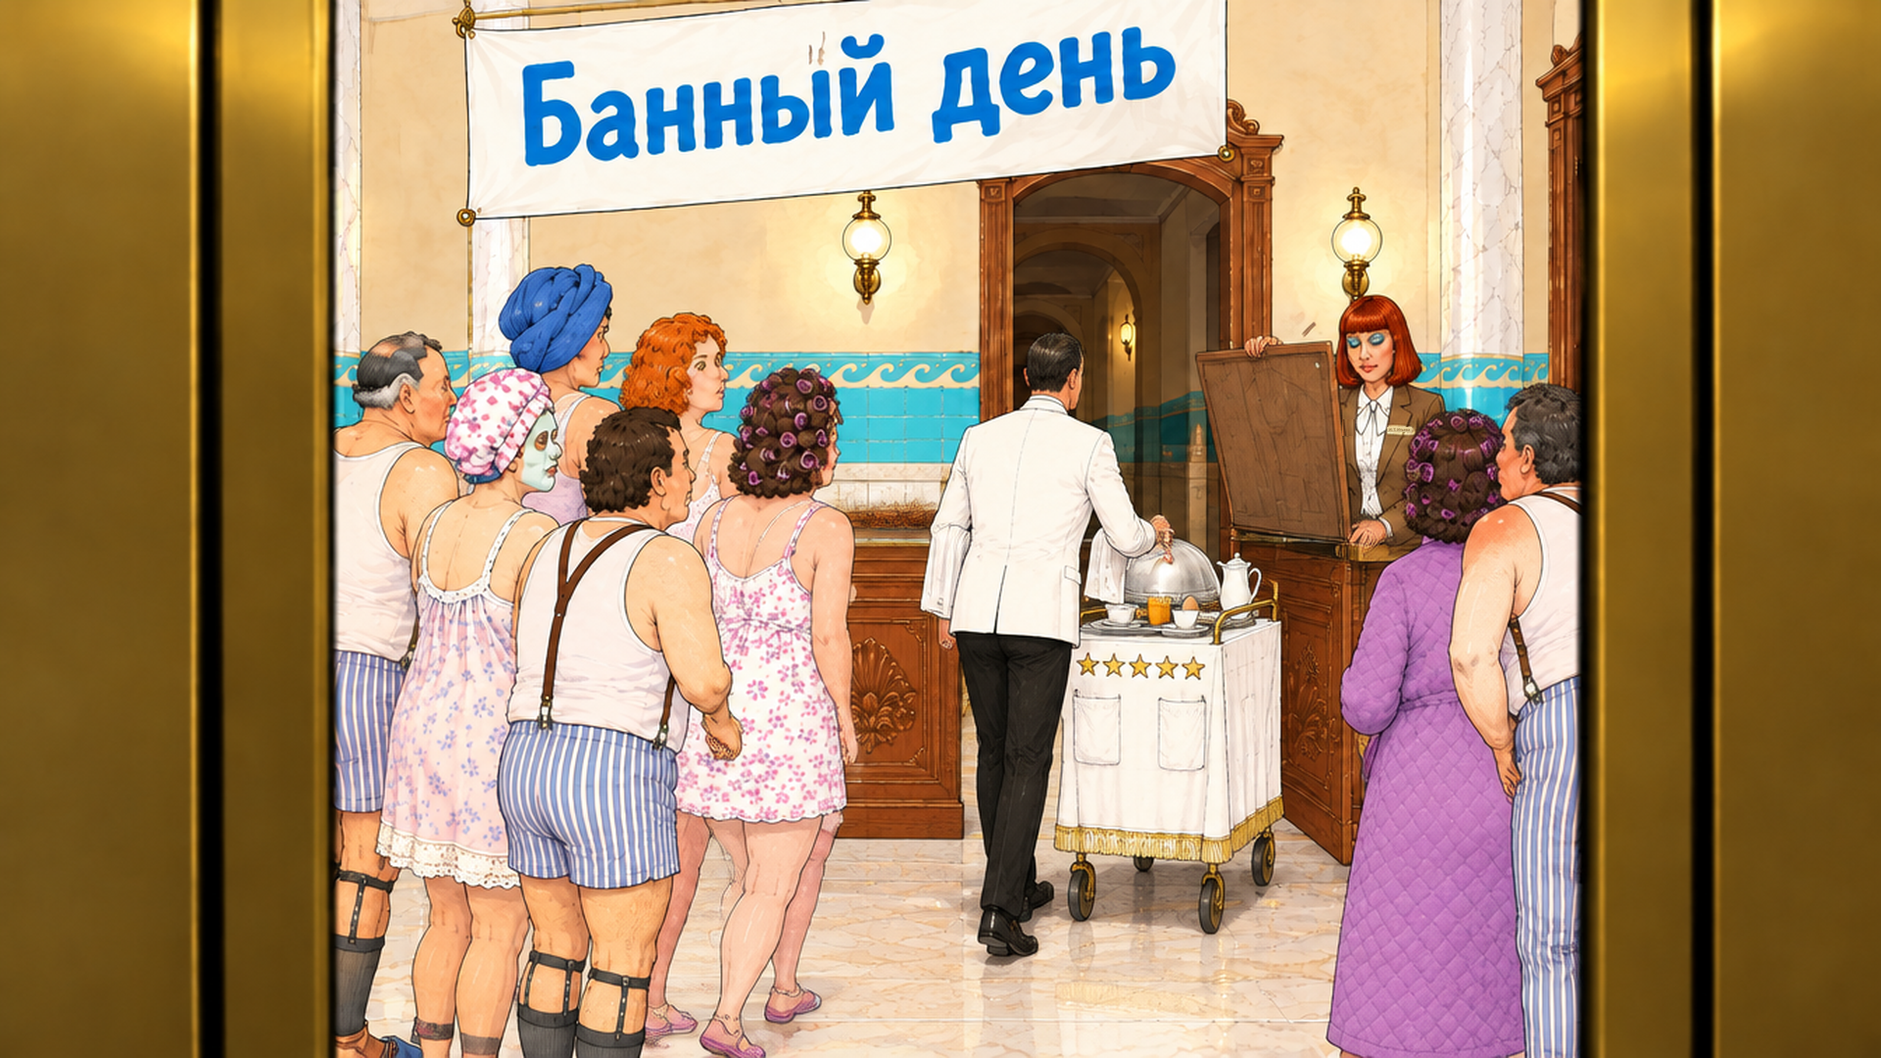
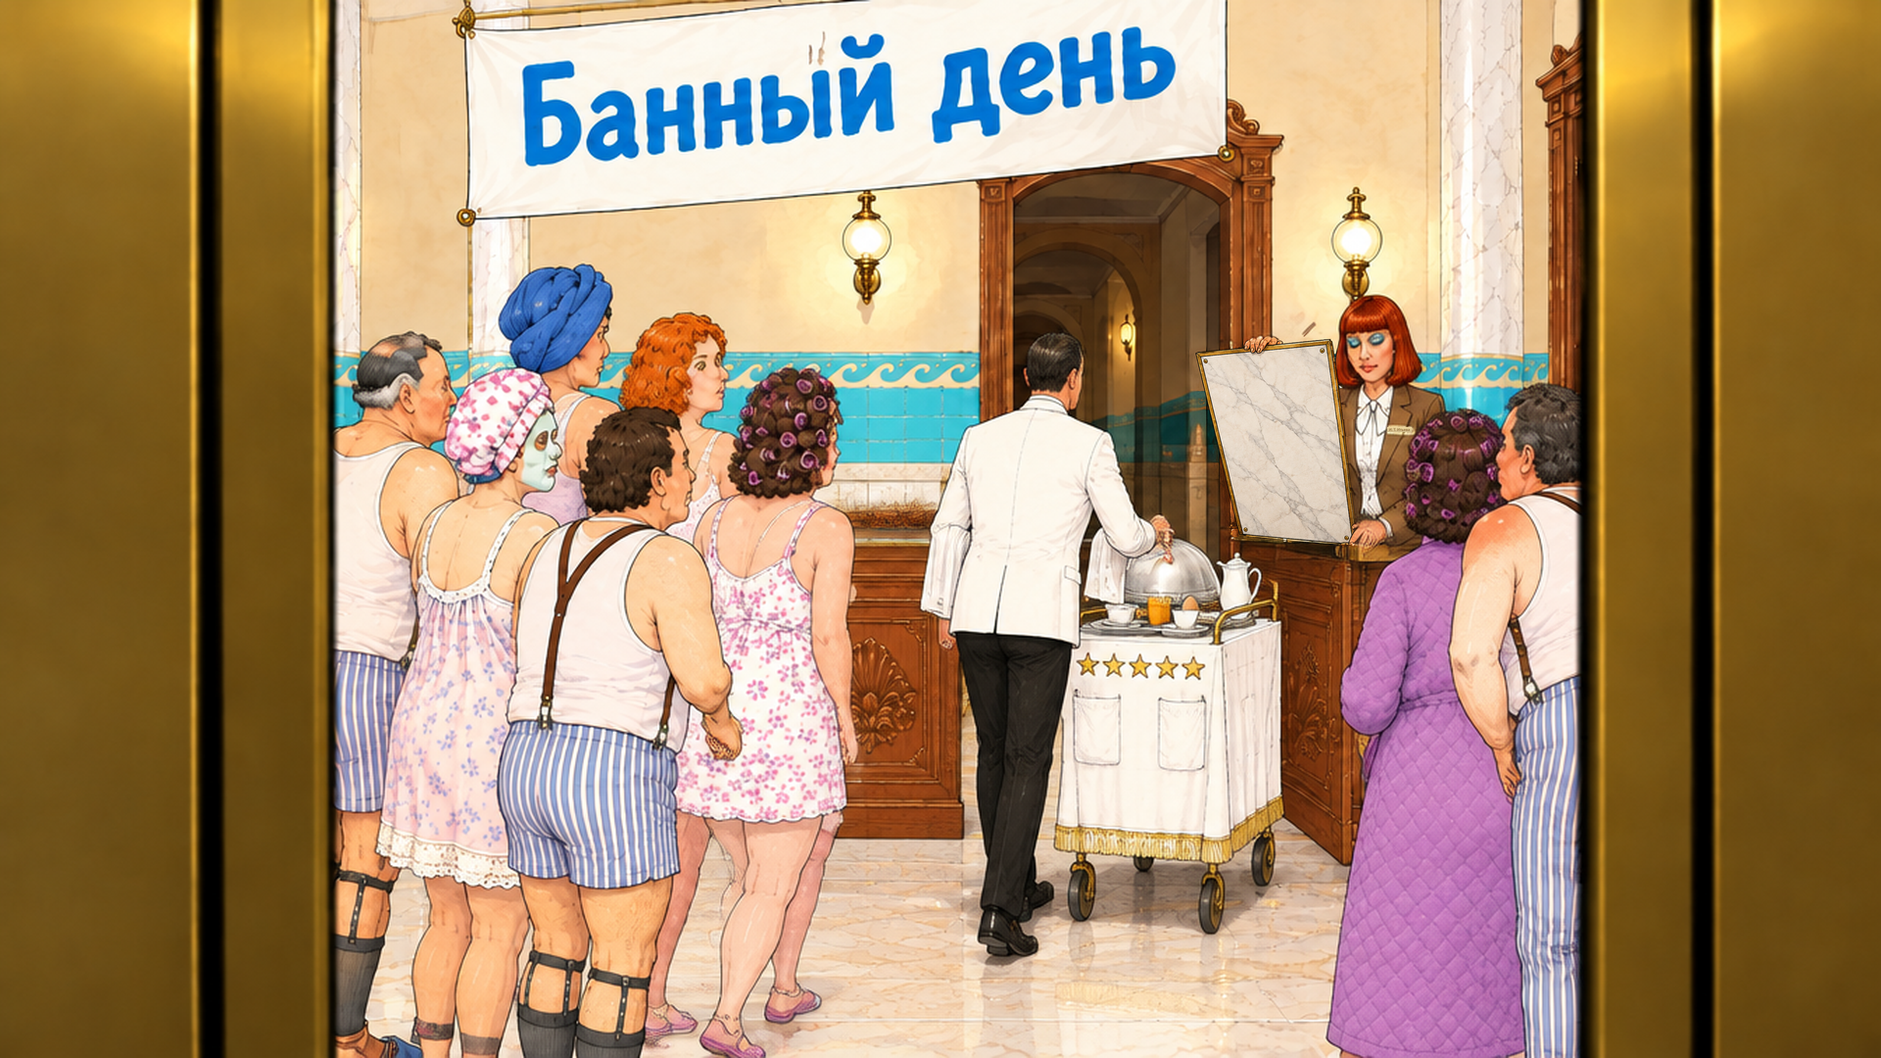
Кадр с официантом: откидная доска мраморная
Claude-Session: https://claude.ai/code/session_01AmbdRPQad6KLKiqRm745ZE

Changed region(s): [[0.625, 0.3056, 0.7188, 0.5194]]

diff --git a/PROJECT_STATUS_HYDROUDAR.md b/PROJECT_STATUS_HYDROUDAR.md
@@ -4,7 +4,7 @@
 
 ## Точка входа для новой сессии
 
-- ★★★★★★★★★★★★★★★★★★★★★★★★★★★★★★★★★ **19.10.2026, поздний вечер — РАУНД 6 ВНЕСЁН В ИГРУ (слово автора «влить значит внести в игру»).** Рука Изольды на папке — «в»: слой `st_z04_iz_slap` в `assets/`, `кадр:вид:Z04+st_z04_iz_slap` на «Папка → поднять» (`ACT2_LOGIC.md`), графика 265. Стойка W2 с ящиками — «а»: `room_w2.png` заменён (прежний — `work/orig_gfx/room_w2__дверцы_до_19.10.png`), слой `st_w2_lowdrawer_open` перерисован под ящики (job 8be3d8a8). `Z04.map.take` — без фразы про плёнку («Просто взял и всё»; ТЗ Акта II поправлено). Кадры из лифта — выбор автора «пара 3» (выглядывание c2 + официант c3) в `assets/gfx/frames/`: ракурс по канону, стойка поперёк кадра, за ней арка; бейдж впечатан, лишняя вторая табличка на пиджаке закрашена; прежние кадры — `work/orig_gfx/*__стойка_вглубь_до_19.10.png`. Замечание автора при выборе («опять геометрический абсурд… подумай, как и кто сможет там пройти»; обещано фото настоящей стойки) — открыто: кадр официанта доработать в новой сессии по фото (доска на c3 деревянная, должна быть мраморной). Проверки: `check_logic.py 2` чисто, `check_texts` 0/0, `check_asset_spec`, `check_docs`, `check_slot_flags`, шрифты — чисто; автопрохождение — AUTOPLAY OK.
+- ★★★★★★★★★★★★★★★★★★★★★★★★★★★★★★★★★ **19.10.2026, поздний вечер — РАУНД 6 ВНЕСЁН В ИГРУ (слово автора «влить значит внести в игру»).** Рука Изольды на папке — «в»: слой `st_z04_iz_slap` в `assets/`, `кадр:вид:Z04+st_z04_iz_slap` на «Папка → поднять» (`ACT2_LOGIC.md`), графика 265. Стойка W2 с ящиками — «а»: `room_w2.png` заменён (прежний — `work/orig_gfx/room_w2__дверцы_до_19.10.png`), слой `st_w2_lowdrawer_open` перерисован под ящики (job 8be3d8a8). `Z04.map.take` — без фразы про плёнку («Просто взял и всё»; ТЗ Акта II поправлено). Кадры из лифта — выбор автора «пара 3» (выглядывание c2 + официант c3) в `assets/gfx/frames/`: ракурс по канону, стойка поперёк кадра, за ней арка; бейдж впечатан, лишняя вторая табличка на пиджаке закрашена; прежние кадры — `work/orig_gfx/*__стойка_вглубь_до_19.10.png`. Замечание автора про «геометрический абсурд» относилось к прежним вариантам (уточнение автора 19.10.2026); доска на кадре официанта заменена на мраморную — вопрос закрыт. Проверки: `check_logic.py 2` чисто, `check_texts` 0/0, `check_asset_spec`, `check_docs`, `check_slot_flags`, шрифты — чисто; автопрохождение — AUTOPLAY OK.
 - ★★★★★★★★★★★★★★★★★★★★★★★★★★★★★★★★ **19.10.2026, вечер — ОТМЕТКИ РАУНДА 6 СОБРАНЫ (не внесены); PR #24 слит в `main` по слову автора «вливай». Новая сессия — только подготовка, ничего не делать до слова автора (он начнёт с ряда замечаний).** Отметки (страница https://claude.ai/artifact/9j3eFwwkW88PBjMqBSBxaL, коллекция `picks`, слоты `r6_*`): **r6_slap — «в»** (рука из-за левого края: `work/higgsfield/candidates/act2_fix_1016/slap_c/st_z04_iz_slap.png` → в `assets/`, `кадр:вид:Z04+st_z04_iz_slap` на «Папка → поднять»); **r6_w2 — «а»** (`room_w2__a.png` → `assets/gfx/rooms/room_w2.png`, прежний — в `work/orig_gfx/`, затем слой `st_w2_lowdrawer_open` заново от новой основы); **r6_map — своя правка**: «не надо вообще акцентировать внимание на материале. Просто взял и всё» (переписать `Z04.map.take` без плёнки/бумаги); **r6_gate — отклонено**, отметка «c3» с замечанием: «нет, опять нарисован какой-то геометрический абсурд. Подумай сам как и кто сможет там пройти. Я приложил новую картинку как выглядит такая стойка в жизни» (картинку автор даст в новой сессии). Кадры из лифта: решено автором 19.10 — ракурс по канону: служебный лифт у северной стены (на `room_w2.png` — золотые двери справа), из него стойка видна поперёк кадра на дальнем плане, западный конец с откидной доской и калиткой справа, сразу за калиткой — арка в служебный коридор, толпа между лифтом и стойкой спинами, Изольда за стойкой лицом, официант сквозь толпу к проходу; образец расположения — принятый `assets/gfx/rooms/room_w2_under.png`. Перерисовываются ОБА кадра (`fr_a1_lobby_peek`, `fr_a1_lobby_waiter`); кандидаты `fr_a1_lobby_peek__c1/c2`, `fr_a1_lobby_waiter__c1–c3` (в `act2_fix_1016/`) — по замечанию автора проход всё ещё абсурден; ветка `gate*` (прежний ракурс) закрыта. В `assets/` пока прежние кадры. Урок: генератор не держит устройство стойки — сначала схема сверху и согласование с автором, потом рисунок; проверять «кто и как физически пройдёт».
 - ★★★★★★★★★★★★★★★★★★★★★★★★★★★★★★★ **18.10.2026 — РАУНД 5 ВНЕСЁН; РАУНД 6 НА СТРАНИЦЕ https://claude.ai/artifact/9j3eFwwkW88PBjMqBSBxaL (слоты `r6_*`). Игра (та же ссылка): https://claude.ai/artifact/E2YwhX4ZapWa6rPZ721VLQ. Ветка `claude/act3-build-1016`, PR #24.** **Внесено по отметкам:** ящики Z04 — вариант «б» (`zoom_z04.png`, три слоя ящиков перерезаны, зоны `drawer` 40,280,330,280 и `lowdrawer` 40,570,330,340 во всех актах; прежние — `work/orig_gfx/…__дверцы_до_18.10.png`); звук «хлоп» 3 → `assets/audio/sfx_folder_slap.ogg` на «Папка → поднять» (69 звуков); мокрый круг убран из сцены в лифте (`SEQ.peek.3_lobby`), поправлены скелет (п. 1 на стр. 424; md5 в CLAUDE.md и MANIFEST), сдача Акта I (стр. 116, 149, AS17), ТЗ текстов Акта I, глоссарий `iz_folder_seen`; сноска со звёздочкой из `DOC.menu` убрана; «под тележкой» → «в тележке / из тележки» во всех актах (16 слотов и кнопка `verb_поздороваться`), «под юбкой» оставлено; строки автора дословно — `Z02.phone.nonumber`, `Z03.under.not_all`, `TALK.req.open`, `Z04.forms.look` (+4 в `AUTHOR_LINES.json`); `Z04.forms.look.stapled` — как предложено. **Раунд 6 (ждёт автора):** проход в стойке по второму фото автора (`gate2` отклонён — «противоречит физике»: доска на сплошной столешнице, проёма нет); новые `fr_a1_lobby_waiter__b_gate3a/b.png` сделаны через схему-набросок на кадре — две секции, проём, доска стоймя на торце правой секции, створка внутрь; `gate3a/b` отклонены — тележка боком «едет прямо в стойку»; `gate4a/b` отклонены — «стойка угловая»; `gate5a/b` отклонены (узкий проём, люди по обе стороны стойки, нет арки); новые `gate6a/b` (19.10) — по утверждённым схеме W2 и плану этажа: Изольда напротив официанта, доска стоймя на конце стойки, широкий проём, калитка внутрь, за ней арка — отклонены («абсолютно не то»); `gate7a/b` сделала Fable (правая часть кадра перерисована целиком, стойка дальше и мельче, тележка торцом в проёме у стены, арка в задней стене — отступление от плана этажа, вопрос автору); в превью — `gate7a`; рука Изольды из-за левого края (`z04_slap__c/d`, слои `slap_c/`, `slap_d/`); W2 — боковина ящиками (`room_w2__a/b`; после выбора — слой `st_w2_lowdrawer_open` заново); реплика `Z04.map.take` — плёнка скользкая (варианты А/Б). Кандидаты — `work/higgsfield/candidates/act2_fix_1016/` (README, раздел «Раунд 6»). **Проверки:** `check_logic.py 1 2 3 4` — чисто; `check_texts.py` — все акты, 0/0; гейт шрифтов — PASS (стрелки «→» в пометках правок заменены словами); автопрохождение — AUTOPLAY OK (проверка зоны теперь ждёт подгрузки слоя после загрузки сейва). **Дальше:** ответы раунда 6 → слой руки в логику, W2 в `assets/` → просмотр Актов III–IV автором → шаг 7.
 - ★★★★★★★★★★★★★★★★★★★★★★★★★★★★★★ **16.10.2026, вечер — ВСЯ ИГРА СОБРАНА И ПРОХОДИТСЯ ОТ НАЧАЛА ДО ЭПИЛОГА. Игра (та же ссылка): https://claude.ai/artifact/E2YwhX4ZapWa6rPZ721VLQ. Прохождение: https://claude.ai/artifact/WSme7L1qRHTmGf2B1XK534. Ветка `claude/act3-build-1016`, черновой PR.** **Акт III** — `design/logic/ACT3_LOGIC.md` (12 видов, 73 зоны): тележка в зал и к лестнице, лифт за зеркалом (порожек, вантуз-присоска), вынос «дизайна», трап «НАШЕ», пробный пуск с водой «Каскадъ», счёт (читается сразу в сцене), счёт под печать — признание Изольды, доклад для накладной, погрузка, доклад по громкой связи, спуск под тележкой (и вариант «оплата одна» → под пустой тележкой). **Акт IV** — `design/logic/ACT4_LOGIC.md` (11 видов, 48 зон): прибытие и приёмка груза (сразу за вступлением), вылезти, доложиться, контора, журнал — вантуз, маховик, финальный монтаж воды, эпилог по числу реликвий (8 сочетаний), карточка «Конец»; реликвии можно добрать наверху после доклада. **Движок:** звук на N-й реплике сцены (`имя@N`), обрыв музыки и новая тема в одном шаге (появление Кухтулху), конец игры; условия логики могут читать флаги прошлых актов; проверка логики начинает и с флагов, которые приходят только из прошлого акта. **Проверки:** `check_logic.py 1 2 3 4` — чисто (Акт III — 11 993 состояния, Акт IV — 392); тесты — 162; автопрохождение всей игры — 244 проверки, AUTOPLAY OK; дымовой тест — OK; **матрица H01–H26** — `tools/data/check_matrix.py` → `docs/BJ3_MATRIX_H.md`. **Решения по ходу (на взгляд автора; списком в `ACT3_LOGIC.md` и `ACT4_LOGIC.md`):** счёт читается сразу после пробного пуска; `W4.lift.search` — в зале (реплика «только здесь, в зале»; в SLOT_FLAGS — «в прачечной или вестибюле»); доска «НАШЕ» достаётся из кучи в зале (в SLOT_FLAGS — «в зуме Z11»); тема совета `down` открыта с погрузки кефира и после отправки оплаты одной (иначе совет говорил «Тут всё»); меловые «НАШЕ» и «НЕ ТРОГАТЬ» у лифта — надписи движка; выкат к столу приёма (E01) — сразу за вступлением Акта IV; графы журнала на уступе — надписи движка (круг вантуза и её оттиск на странице после отметки не рисуются — нужен слой, вопрос автору). **Раунд 5, 16.10 (отметки автора):** Изольда на кадрах из лифта — «б»: выглядывание в `assets/`; кадр с официантом — по замечанию «так никто никуда не проедет» перерисован проход в стойке (`fr_a1_lobby_waiter__b_gate`, вопрос r5_gate, в превью — кандидатом). **Ждёт автора:** остальные пункты раунда 5 и r5_gate, просмотр Актов III–IV. **Дальше:** ответы раунда 5 → правки по просмотру → шаг 7 (редакторский проход текстов).
